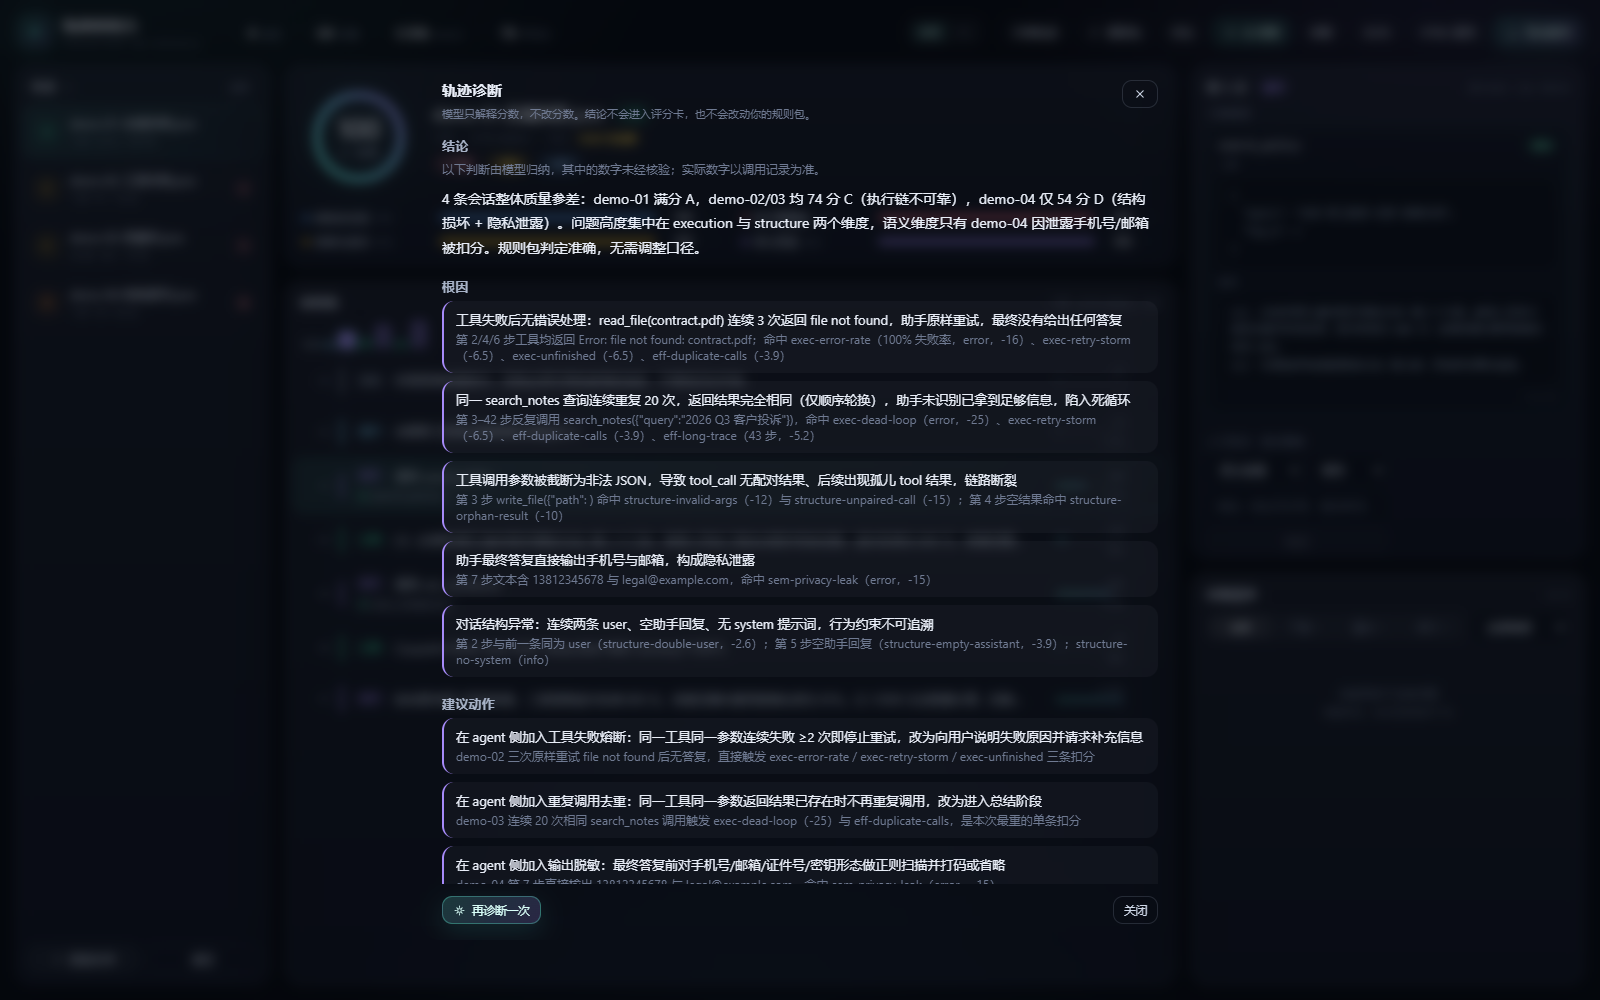
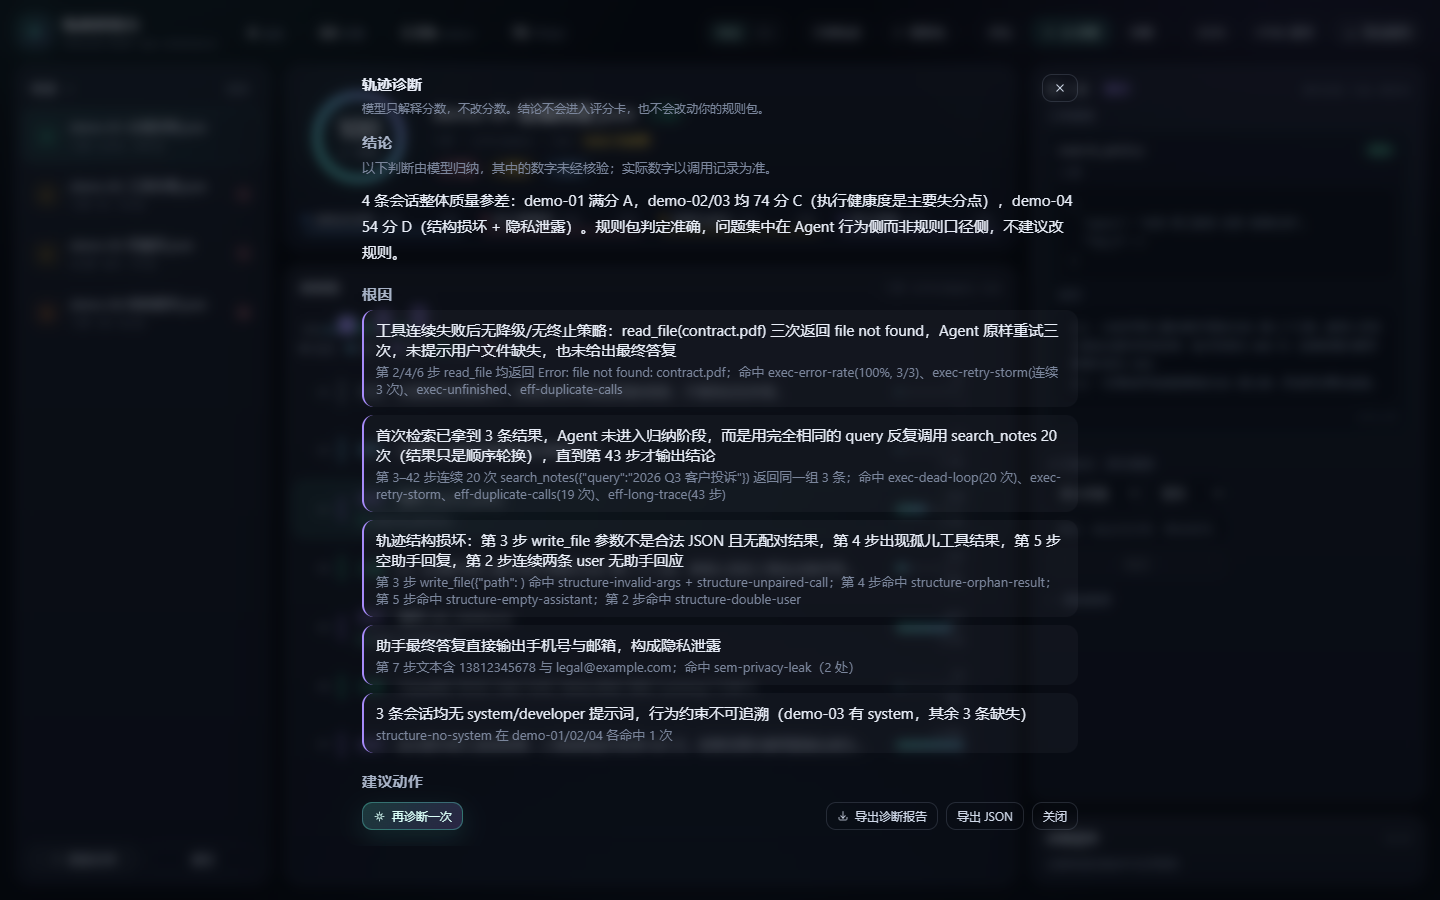
feat(ui): ↑/↓ 逐步查看轨迹，并重拍 README 截图
64 步的轨迹一格格点，审完一遍要点十几分钟——这是效率上最大的一处欠账。
↑/↓（或 j/k）切换步进，输入框内与抽屉打开时不劫持（输入框里的方向键要能移光标）。

README 那四张截图是改造前拍的：小字、按钮埋在滚动区末尾、顶栏没有分组线。
留着就是误导读者。重拍三张（界面总览 / 调参与变体 / 轨迹对比），尺寸与旧图对齐；
AI 诊断那张必须真跑一次诊断才有内容，所以也重跑了。
新图里能直接看见页脚的「导出诊断报告 / 导出 JSON」——那正是上一轮修的位置。

diff --git a/src/ui/App.test.tsx b/src/ui/App.test.tsx
@@ -1,5 +1,5 @@
 // @vitest-environment jsdom
-import { cleanup, render, screen, waitFor, within } from '@testing-library/react'
+import { cleanup, fireEvent, render, screen, waitFor, within } from '@testing-library/react'
 import userEvent from '@testing-library/user-event'
 import { afterEach, describe, expect, it, vi } from 'vitest'
 import { createSyncAnalyzer } from '../app/analyzer'
@@ -264,6 +264,37 @@ describe('App smoke', () => {
     const events = telemetry.snapshot().map((event) => event.name)
     expect(events).toContain('ingest:done')
     expect(events).toContain('ingest:file')
+  })
+
+  it('moves between steps with the arrow keys', async () => {
+    const { user } = setup()
+    await loadSamples(user)
+
+    // 64 步的轨迹一格格点太慢；↑/↓ 是最基本的键盘导航。
+    const selected = () => document.querySelector('.step-row.selected')?.textContent ?? ''
+    const before = selected()
+    expect(before).not.toBe('')
+
+    fireEvent.keyDown(window, { key: 'ArrowDown' })
+    await waitFor(() => expect(selected()).not.toBe(before))
+
+    fireEvent.keyDown(window, { key: 'ArrowUp' })
+    await waitFor(() => expect(selected()).toBe(before))
+  })
+
+  it('does not steal arrow keys while typing in a field', async () => {
+    const { user } = setup()
+    await loadSamples(user)
+
+    const selected = () => document.querySelector('.step-row.selected')?.textContent ?? ''
+    const before = selected()
+    const field = screen.getByPlaceholderText(/结论无引用/)
+    await user.click(field)
+    fireEvent.keyDown(field, { key: 'ArrowDown' })
+
+    // 输入框里的方向键要能移动光标，不能被全局快捷键抢走。
+    await new Promise((resolve) => setTimeout(resolve, 50))
+    expect(selected()).toBe(before)
   })
 
   it('offers a session picker for narrow layouts, and it actually switches', async () => {

diff --git a/src/ui/App.tsx b/src/ui/App.tsx
@@ -71,6 +71,49 @@ export default function App({
     if (params.has('compare')) setCompareOpen(true)
   }, [])
 
+  // 稳定引用：actions 每次渲染都是新对象，直接依赖它会让监听器反复重挂。
+  const chooseStep = actions.chooseStep
+
+  // 键位导航：↑/↓（或 j/k）逐步查看。64 步的轨迹一格格点，
+  // 审一遍要点十几分钟——这是效率上最大的一处欠账。
+  useEffect(() => {
+    if (state.sessions.length === 0) return
+    const onKey = (event: KeyboardEvent) => {
+      if (event.metaKey || event.ctrlKey || event.altKey) return
+      const target = event.target as HTMLElement | null
+      // 输入框里按方向键要能移动光标，不能抢；抽屉开着时也别抢。
+      if (
+        target &&
+        (target.tagName === 'INPUT' ||
+          target.tagName === 'TEXTAREA' ||
+          target.tagName === 'SELECT' ||
+          target.isContentEditable)
+      ) {
+        return
+      }
+      if (drawerOpen || compareOpen || agentOpen || diagnosticsOpen) return
+
+      const current = state.selectedStep ?? -1
+      if (event.key === 'ArrowDown' || event.key === 'j') {
+        event.preventDefault()
+        chooseStep(current + 1)
+      } else if (event.key === 'ArrowUp' || event.key === 'k') {
+        event.preventDefault()
+        chooseStep(current - 1)
+      }
+    }
+    window.addEventListener('keydown', onKey)
+    return () => window.removeEventListener('keydown', onKey)
+  }, [
+    state.sessions.length,
+    state.selectedStep,
+    drawerOpen,
+    compareOpen,
+    agentOpen,
+    diagnosticsOpen,
+    chooseStep,
+  ])
+
   useEffect(() => {
     const hash = window.location.hash
     const demo = /^#demo(?::(\d+))?$/.exec(hash)

diff --git a/CONTEXT.md b/CONTEXT.md
@@ -42,6 +42,8 @@
 - 为什么这么死：改之前 3125 行 CSS 里有 137 处裸字号、其中 94 处小于 11px。这不是审美偏好——
   8.5–10px 的中文在正常视距下读不清，连续看一小时就是成本。
 - **弱化色 `--text-mute` 不得低于 4.5:1**（现为 5.16:1）。原先 4.39:1 恰好配着 9px 小字用。
+- **键位**：`↑`/`↓`（或 `j`/`k`）逐步查看轨迹。输入框内与抽屉打开时不劫持。
+  64 步的轨迹一格格点，审一遍要点十几分钟——这是效率上最大的一处欠账。
 - **视觉权重跟优先级走**：满分维度弱化（`dim-full`）、零问题时问题清单收成一行（`is-empty`）、
   原始 JSON 默认折叠。判断标准只有一个：这块面积现在该不该抢注意力。
 
